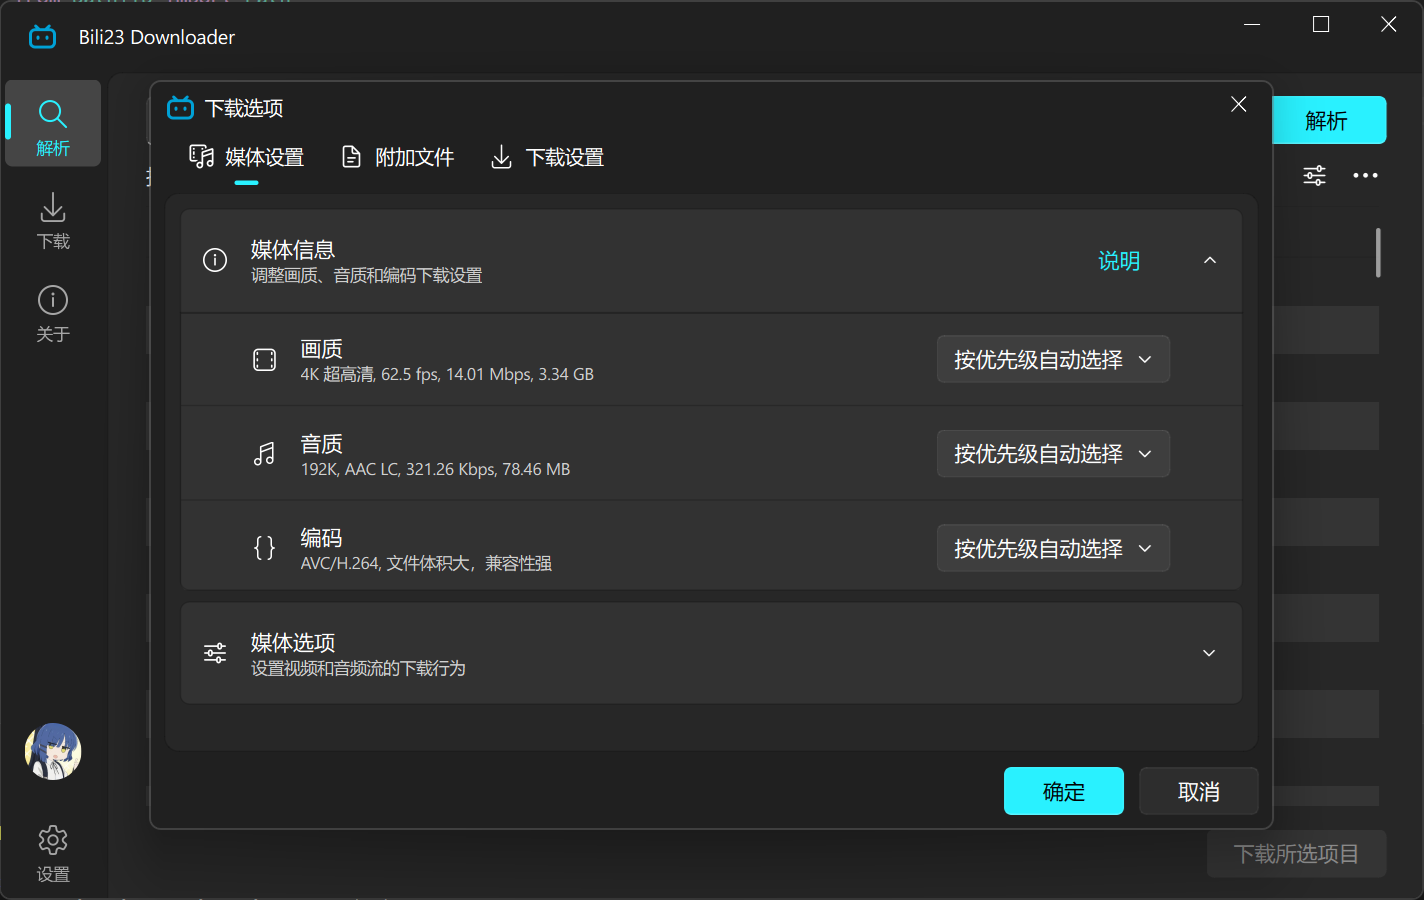
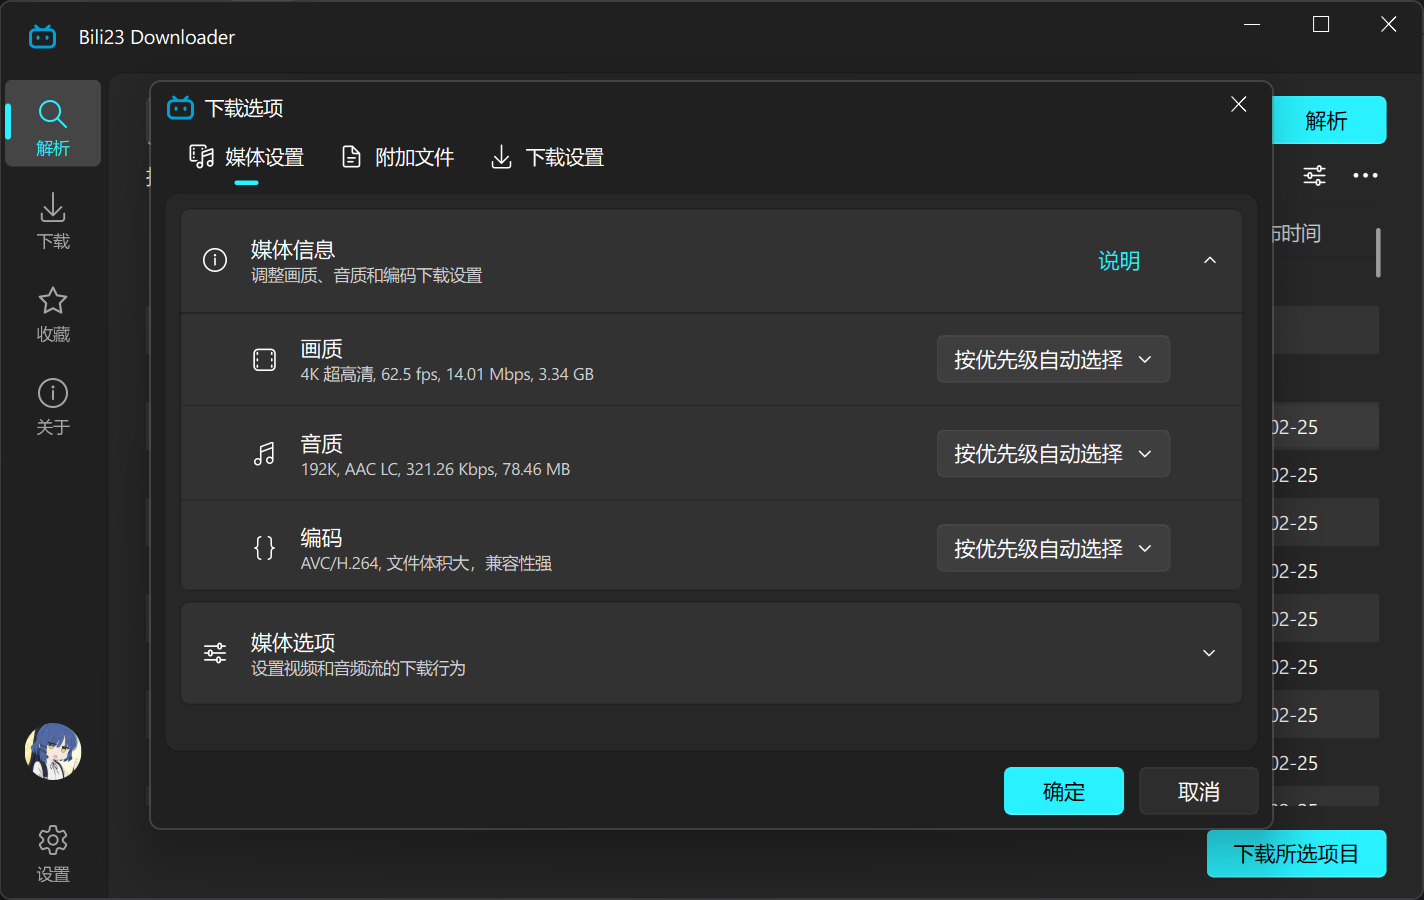
docs: 更新 2.00.1 下载链接

diff --git a/.vitepress/theme/style.css b/.vitepress/theme/style.css
@@ -1,0 +1,139 @@
+/**
+ * Customize default theme styling by overriding CSS variables:
+ * https://github.com/vuejs/vitepress/blob/main/src/client/theme-default/styles/vars.css
+ */
+
+/**
+ * Colors
+ *
+ * Each colors have exact same color scale system with 3 levels of solid
+ * colors with different brightness, and 1 soft color.
+ * 
+ * - `XXX-1`: The most solid color used mainly for colored text. It must
+ *   satisfy the contrast ratio against when used on top of `XXX-soft`.
+ *
+ * - `XXX-2`: The color used mainly for hover state of the button.
+ *
+ * - `XXX-3`: The color for solid background, such as bg color of the button.
+ *   It must satisfy the contrast ratio with pure white (#ffffff) text on
+ *   top of it.
+ *
+ * - `XXX-soft`: The color used for subtle background such as custom container
+ *   or badges. It must satisfy the contrast ratio when putting `XXX-1` colors
+ *   on top of it.
+ *
+ *   The soft color must be semi transparent alpha channel. This is crucial
+ *   because it allows adding multiple "soft" colors on top of each other
+ *   to create a accent, such as when having inline code block inside
+ *   custom containers.
+ *
+ * - `default`: The color used purely for subtle indication without any
+ *   special meanings attched to it such as bg color for menu hover state.
+ *
+ * - `brand`: Used for primary brand colors, such as link text, button with
+ *   brand theme, etc.
+ *
+ * - `tip`: Used to indicate useful information. The default theme uses the
+ *   brand color for this by default.
+ *
+ * - `warning`: Used to indicate warning to the users. Used in custom
+ *   container, badges, etc.
+ *
+ * - `danger`: Used to show error, or dangerous message to the users. Used
+ *   in custom container, badges, etc.
+ * -------------------------------------------------------------------------- */
+
+ :root {
+  --vp-c-default-1: var(--vp-c-gray-1);
+  --vp-c-default-2: var(--vp-c-gray-2);
+  --vp-c-default-3: var(--vp-c-gray-3);
+  --vp-c-default-soft: var(--vp-c-gray-soft);
+
+  --vp-c-brand-1: var(--vp-c-indigo-1);
+  --vp-c-brand-2: var(--vp-c-indigo-2);
+  --vp-c-brand-3: var(--vp-c-indigo-3);
+  --vp-c-brand-soft: var(--vp-c-indigo-soft);
+
+  --vp-c-tip-1: var(--vp-c-brand-1);
+  --vp-c-tip-2: var(--vp-c-brand-2);
+  --vp-c-tip-3: var(--vp-c-brand-3);
+  --vp-c-tip-soft: var(--vp-c-brand-soft);
+
+  --vp-c-warning-1: var(--vp-c-yellow-1);
+  --vp-c-warning-2: var(--vp-c-yellow-2);
+  --vp-c-warning-3: var(--vp-c-yellow-3);
+  --vp-c-warning-soft: var(--vp-c-yellow-soft);
+
+  --vp-c-danger-1: var(--vp-c-red-1);
+  --vp-c-danger-2: var(--vp-c-red-2);
+  --vp-c-danger-3: var(--vp-c-red-3);
+  --vp-c-danger-soft: var(--vp-c-red-soft);
+}
+
+/**
+ * Component: Button
+ * -------------------------------------------------------------------------- */
+
+:root {
+  --vp-button-brand-border: transparent;
+  --vp-button-brand-text: var(--vp-c-white);
+  --vp-button-brand-bg: var(--vp-c-brand-3);
+  --vp-button-brand-hover-border: transparent;
+  --vp-button-brand-hover-text: var(--vp-c-white);
+  --vp-button-brand-hover-bg: var(--vp-c-brand-2);
+  --vp-button-brand-active-border: transparent;
+  --vp-button-brand-active-text: var(--vp-c-white);
+  --vp-button-brand-active-bg: var(--vp-c-brand-1);
+}
+
+/**
+ * Component: Home
+ * -------------------------------------------------------------------------- */
+
+:root {
+  --vp-home-hero-name-color: transparent;
+  --vp-home-hero-name-background: -webkit-linear-gradient(
+    120deg,
+    #bd34fe 30%,
+    #41d1ff
+  );
+
+  --vp-home-hero-image-background-image: linear-gradient(
+    -45deg,
+    #bd34fe 50%,
+    #47caff 50%
+  );
+  --vp-home-hero-image-filter: blur(44px);
+}
+
+@media (min-width: 640px) {
+  :root {
+    --vp-home-hero-image-filter: blur(56px);
+  }
+}
+
+@media (min-width: 960px) {
+  :root {
+    --vp-home-hero-image-filter: blur(68px);
+  }
+}
+
+/**
+ * Component: Custom Block
+ * -------------------------------------------------------------------------- */
+
+:root {
+  --vp-custom-block-tip-border: transparent;
+  --vp-custom-block-tip-text: var(--vp-c-text-1);
+  --vp-custom-block-tip-bg: var(--vp-c-brand-soft);
+  --vp-custom-block-tip-code-bg: var(--vp-c-brand-soft);
+}
+
+/**
+ * Component: Algolia
+ * -------------------------------------------------------------------------- */
+
+.DocSearch {
+  --docsearch-primary-color: var(--vp-c-brand-1) !important;
+}
+

diff --git a/.vitepress/theme/index.js b/.vitepress/theme/index.js
@@ -1,0 +1,30 @@
+// https://vitepress.dev/guide/custom-theme
+import { h } from 'vue'
+import DefaultTheme from 'vitepress/theme'
+import './style.css'
+import 'viewerjs/dist/viewer.min.css';
+import imageViewer from 'vitepress-plugin-image-viewer';
+import vImageViewer from 'vitepress-plugin-image-viewer/lib/vImageViewer.vue';
+import { useRoute } from 'vitepress';
+
+/** @type {import('vitepress').Theme} */
+export default {
+  extends: DefaultTheme,
+  Layout: () => {
+    return h(DefaultTheme.Layout, null, {
+      // https://vitepress.dev/guide/extending-default-theme#layout-slots
+    })
+  },
+  enhanceApp(ctx) {
+    DefaultTheme.enhanceApp(ctx);
+    // Register global components, if you don't want to use it, you don't need to add it
+    ctx.app.component('vImageViewer', vImageViewer);
+    // ...
+  },
+  setup() {
+    // Get route
+    const route = useRoute();
+    // Using
+    imageViewer(route);
+  }
+}

diff --git a/project.data.js b/project.data.js
@@ -1,8 +1,8 @@
 export default {
   load() {
     return {
-      version: '2.00.0-rc.2',
-      date: '2026-03-31'
+      version: '2.00.1',
+      date: '2026-04-07'
     }
   }
 }

diff --git a/doc/faq.md b/doc/faq.md
@@ -4,12 +4,12 @@
 ## 下载问题
 
 ::: details 为什么我只能下载 480P 画质的视频？
-未登录状态下，B站接口限制最高只能获取 480P 画质。
+未登录状态下，B站接口限制最高只能获取 480P 画质。  
 **解决方法**：请在软件内**登录你的哔哩哔哩账号**后再进行解析和下载。
 :::
 
 ::: details 为什么不能下载大会员专享、充电专属或付费视频？
-本软件**不支持且绝不会**绕过任何付费墙或会员限制，所能获取的内容权限完全取决于你当前登录账号的状态。
+本软件**不支持且绝不会**绕过任何付费墙或会员限制，所能获取的内容权限完全取决于你当前登录账号的状态。  
 **解决方法**：请确保你的账号已开通“大会员”或已经购买了对应的内容。
 :::
 
@@ -31,7 +31,9 @@
 
 **解决方法**（任选其一均可）：
 - **方法一（推荐）**：使用支持全格式解码的专业播放器，例如 [PotPlayer](https://potplayer.daum.net/) 或 [VLC](https://www.videolan.org/)。
-- **方法二**：在程序设置中，将修改编码优先级为兼容性最广的 **AVC (H.264)**，然后重新下载该视频。
+- **方法二**：在程序设置中，将兼容性最广的 **AVC (H.264)** 拖拽到列表顶部，然后重新下载该视频。
+
+<img src="./pic/custom_codec_priority.png" alt="自定义编码优先级设置">
 :::
 
 ## Windows 7 用户常见问题
@@ -43,28 +45,21 @@
 :::
 
 ::: details 为什么界面看起来太小了，字体模糊不清？
-请在程序设置中调整显示缩放比例。
+<img src="./pic/adjust_display_scale.png" alt="调整显示缩放比例">
+
+因为 Windows 7 的 DPI 缩放机制与现代 Windows 10/11 不兼容，导致程序无法正确识别当前的显示缩放比例，从而界面元素过小且字体模糊。  
+**解决方法**：请在程序设置中调整显示缩放比例。
 :::
 
 ## macOS 用户常见问题
 
-::: details 我是 macOS 用户，为什么提示 dmg 安装包或应用已损坏？
-这是因为 macOS 的安全机制（Gatekeeper），从网络下载且未受信任证书签名的应用会默认被标记为隔离状态，从而提示应用已损坏。
-
-**解决方法**：
-1. 请先确保已经将 dmg 里的软件拖入到了“应用程序 (Applications)”文件夹中。
-2. 打开“终端 (Terminal)”应用（可以在启动台中搜索“终端”）。
-3. 复制并粘贴以下命令，然后按回车执行。如果提示输入 Password，请输入你的 Mac 开机密码并回车（注意：输入密码时屏幕上不会显示任何字符）：
-   ```bash
-   sudo xattr -cr /Applications/Bili23-Downloader.app
-   ```
-*(注：如果你的应用名称不是 `Bili23-Downloader.app`，请自行修改上述命令末尾的应用名称以匹配实际路径)*
-:::
-
 ::: details 我是 macOS 用户，为什么提示 Apple 无法检查其是否包含恶意软件？
+
+<img src="./pic/macos_security_warning.jpg" alt="macOS 安全提示">
+
 这是由于软件没有进行 Apple 开发者的高级公证（Notarization），首次运行时会被系统的基础安全策略拦截。
 
-**解决方法**（任选其一均可）：
-- **方法一（推荐）**：打开“访达 (Finder)”，进入“应用程序”目录。找到本软件程序，**按住键盘上的 `Control` 键同时点击**（或使用鼠标右键点击）该应用图标。在弹出的菜单中选择“**打开**”，然后在弹出的警告对话框中再次点击“**打开**”即可。
-- **方法二**：打开左上角的  苹果菜单 ->“系统设置...” -> “隐私与安全性”，向下滑动找到“安全性”部分。你会看到一条关于本应用被拦截的提示，点击旁边的“**仍要打开**”按钮，输入你的 Mac 密码授权即可。
+**解决方法**：  
+<img src="./pic/macos_security_solution_1.jpg" alt="macOS 安全提示解决方案步骤1">
+<img src="./pic/macos_security_solution_2.jpg" alt="macOS 安全提示解决方案步骤2">
 :::

diff --git a/doc/basic-usage.md b/doc/basic-usage.md
@@ -3,9 +3,10 @@
 ## 1. 主界面概览
 <img src="./pic/main_interface.png" alt="主界面示意图">
 
-程序启动后分为三大核心功能区，你可以通过侧边栏/顶部的标签导航进行切换：
+程序启动后分为四大核心功能区，你可以通过侧边栏/顶部的标签导航进行切换：
 - **解析页**：粘贴视频链接并获取可下载的栏目列表，是程序的默认首页。
 - **下载页**：集中追踪下载进度，管理正在下载和已完成的任务。
+- **收藏页**：查看登录账号的收藏夹、订阅合集、追番追剧、稍后再看、历史记录等内容。
 - **设置页**：自定义保存路径、画质优先级及其他软件运行行为。
 
 ::: tip 💡 获取高画质的必做前提
@@ -37,12 +38,18 @@
 此时程序会弹出**下载选项对话框**，你可以预览媒体预估大小等信息，并能根据需要临时微调该批任务的参数（如强选 H.264 编码格式）。确认无误后点击 **[确认]** 即可将其加入下载队列。
 
 ::: details 🖱 进阶技巧：如何搜索与批量快速选择？
-如果是面对包含成百上千个视频的大型收藏夹，可以使用以下高级功能辅助选择：
+如果是面对包含成百上千个视频的大型合集，可以使用以下高级功能辅助选择：
 
 - **搜索定位**：点击解析按钮下方的“更多选项”图标，打开搜索对话框。输入关键词后会在解析列表中高亮显示相关项。
   <img src="./pic/search_widget.png" alt="搜索结果示意图" style="max-width: 60%; margin-top: 10px;">
 - **系统快捷键**：在列表范围内按下 <kbd>Ctrl</kbd> + <kbd>A</kbd> 迅速全选，<kbd>Ctrl</kbd> + <kbd>D</kbd> 取消除全选。
 - **划定范围选择**：在“更多选项”中打开批量选择对话框，输入行号范围（如 `1-5,7,9-12`），点击确认可极速圈选对应序列的视频。
+:::
+
+::: details 🖱 进阶技巧：点击表头进行升降序排列
+在解析列表的顶部表头区域，**直接点击**对应的列标题（如“序号”、“时长”、“发布时间”），即可快速按该属性对内容进行排序。再次点击同一列标题，即可在 **升序 / 降序**（正序/倒序）之间灵活切换。
+
+<img src="./pic/sort_by_column.png" alt="按列排序示意图">
 :::
 
 ---
@@ -58,7 +65,20 @@
 
 ---
 
-## 4. 个性化设置
+## 4. 浏览账号收藏与记录
+<img src="./pic/favorites_page.png" alt="收藏页示意图">
+
+切换至 **[收藏页]**，在确保账号已登录的情况下，你可以直接在这里快捷读取和访问你的个人内容资产，省去切回浏览器找链接的麻烦：
+- **个人资产**：支持加载自己创建的“收藏夹”、“稍后再看”以及近期的“历史记录”。
+- **追番列表**：一键同步你的“追番追剧”列表与“订阅合集”。
+
+::: tip 🚀 联动解析：告别复制粘贴
+当你在本页面找到想要下载的内容时，只需点选对应的卡片，程序会自动将底层链接提取并直接跳转至 **[解析页]** 进行深度解析。这种“所见即所得”的联动设计能让你获得极其流畅的下载体验。
+:::
+
+---
+
+## 5. 个性化设置
 <img src="./pic/settings_page.png" alt="设置页示意图">
 
 切换至 **[设置页]**，这里提供了丰富的配置项，可一劳永逸地满足你的个人使用习惯：

diff --git a/doc/introduction.md b/doc/introduction.md
@@ -1,7 +1,22 @@
-
-
 # 介绍
 
 Bili23-Downloader 是一款跨平台的 B 站视频下载工具，兼容 Windows（含 Win7）、Linux 和 macOS。它拥有现代化 UI，支持音视频流分离下载、多线程加速、弹幕与字幕获取、封面提取、元数据刮削等丰富功能，并可自定义文件命名与分类，满足多样化需求。
 
 本项目致力于为用户提供功能全面、易于上手且高效稳定的下载体验。无论是单个视频还是批量下载，Bili23-Downloader 都能助你轻松完成。
+
+## 核心特性一览
+| 特性 | 详细说明 |
+| :--- | :--- |
+| 🖥 **跨平台支持** | 完美兼容 **Windows**（含 Win 7）、**Linux** 和 **macOS** 三大桌面操作系统。 |
+| 🎨 **现代 UI 设计** | 基于 Fluent Design 设计语言，支持浅色 / 深色主题无缝切换，原生适配高分屏。 | 
+| 🚀 **多线程与加速**| 原生集成多线程并行下载、断点续传及网络异常自动重试机制，提供极致的下载速率。 |
+| 🔗 **多类型解析** | 全面支持：`投稿视频`、`番剧`、`课程`、`UP主空间`、`收藏夹`、`每周必看`、`订阅合集`、`追番追剧`、`稍后再看`、`历史记录`等，支持批量处理。 |
+| ⚙ **音视频自定义**| **画质**：`8K`、`4K`、`HDR`、`杜比视界`等 <br>**音质**：`Hi-Res 无损`、`杜比全景声`等 <br>**编码**：`AVC`、`HEVC`、`AV1` |
+| 💬 **弹幕与字幕** | **弹幕**：`xml`、`ass`、`json`<br>**字幕**：`srt`、`lrc`、`txt`、`ass`、`json` |
+| 🖼 **封面解析嵌入**| 无损保存原图质量（`jpg`、`png`、`avif`、`webp`），并原生支持将图片自动嵌入最终的视频文件中。 |
+| 🧩 **NFO 元数据** | 自动刮削并生成符合 **Kodi**、**Jellyfin**、**Emby** 等媒体中心标准格式的本地媒体元数据。 |
+| 📁 **分类与命名** | 内置强大规则引擎，支持高度自定义的本地文件命名模板与多级目录分类存储模式。 |
+| 📦 **封装格式转化**| 智能音视频流混合提取，支持封装输出为 `mp4` 或 `mkv`，充分满足不同播放设备的兼容需求。 |
+| 🌐 **国际化支持** | 内置多语言界面，开箱可用：简体中文、繁体中文、English。 |
+| 🔒 **账号安全登录**| 支持快捷安全的**扫码登录**与**短信验证登录**。 |
+| 📖 **完全开源免费**| 基于 **GPL-3.0** 协议发布，代码完全开源、无内购、无广告，拥抱社区共建。 |

diff --git a/doc/releases.md b/doc/releases.md
@@ -26,6 +26,11 @@ let macos_x86_64_url = formatURL('macos_x86_64.dmg')
 
 完整更新日志请前往 <a :href="release_url" target="_blank">GitHub 发布页</a> 查看。
 
+::: danger 🛑 安全下载提示与免责声明
+强烈建议**仅通过下方提供的官方 GitHub 链接**下载本软件。
+从第三方网站、网盘论坛或他人私下分享渠道获取的安装包，**极有可能被二次篡改或植入病毒/木马**。对于因下载、运行非官方渠道安装包所导致的任何设备损坏、隐私泄露或财产损失，开发者**概不负责**。
+:::
+
 ## Windows
 
 ::: tip 💡 推荐选择
@@ -59,9 +64,11 @@ glibc 版本须为 2.27 及以上，即 Ubuntu 18.04 / Debian 10 及以上版本
 
 ## macOS
 ::: warning ⚠ macOS 用户注意
-最低支持 macOS 12.0 Monterey 版本，请根据你的 Mac 电脑处理器类型（Apple 芯片或 Intel 芯片）选择对应的安装包。
+**最低系统版本要求**：
+- **苹果 M 系列芯片**：macOS 11.0 (Big Sur) 及以上
+- **英特尔 (Intel) 芯片**：macOS 10.15 (Catalina) 及以上
 
-如果你遇到了安装包损坏或无法验证的问题，请参考 [macOS 用户常见问题](/doc/faq.html#macos-用户常见问题)。
+请根据你的 Mac 电脑处理器类型选择对应的安装包。如果你遇到了安装包损坏或无法验证的问题，请参考 [macOS 用户常见问题](/doc/faq.html#macos-用户常见问题)。
 :::
 
 | 芯片类型 | 文件类型 | 说明 | 下载链接 |

diff --git a/doc/advanced-usage.md b/doc/advanced-usage.md
@@ -36,6 +36,9 @@
 | `{number}` | 解析列表中的编号 | 1 |
 | `{uploader}` | UP 主昵称 | 哔哩哔哩番剧 |
 | `{uploader_uid}` | UP 主 UID | 12345678 |
+| `{video_quality}` | 画质 | 1080P |
+| `{audio_quality}` | 音质 | 192K |
+| `{video_codec}` | 编码 | HEVC |
 | `{aid}` | av 号 | av12345678 |
 | `{bvid}` | BV 号 | BV1xxxxxx |
 | `{cid}` | cid | 12345678 |
